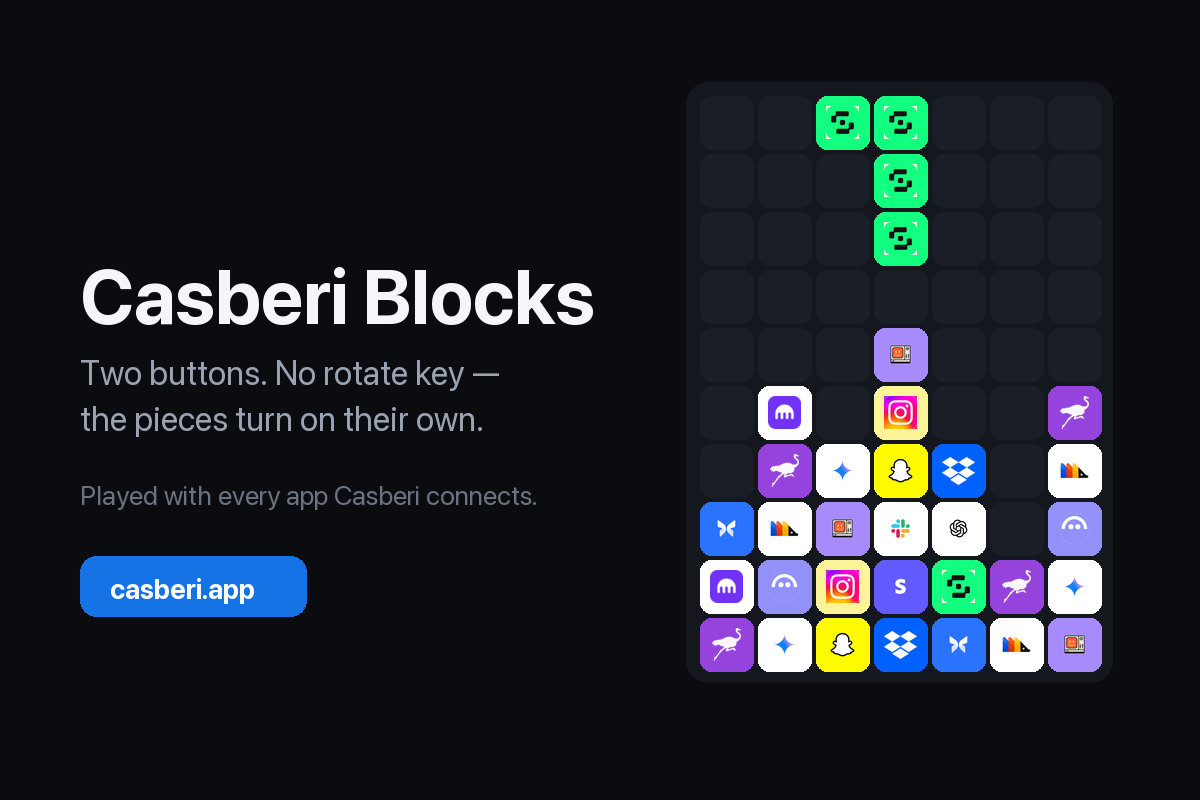
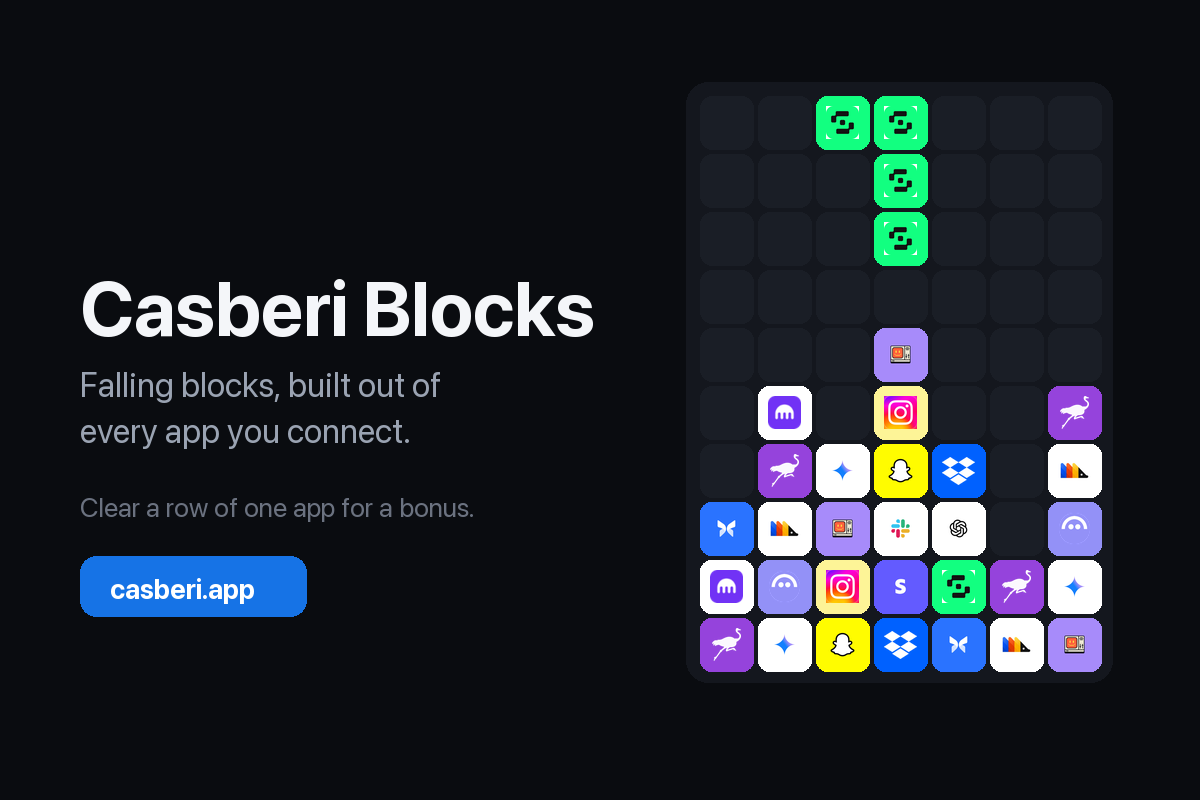
Casberi Blocks: pieces stop turning by themselves
Three rounds of "too hard" and "it rotates when I hit drop" all traced to
one idea that had to go: pieces turned themselves, one quarter-turn per row
fallen. It made every drop look like it rotated something, it made the only
rotation control a thing you paid height for, and it was simply hard to
play. Falling and turning are now fully independent, the way every
falling-block game works.

Rotation is a plain, free control on its own key. Drop goes straight to the
floor and never turns. Gravity never turns. Keyboard follows the convention
people already have: ↑ (or X/Z) turns, ↓ and Space drop.

The two down-ish keys were indistinguishable — ↓ beside ▼ — which is how a
rotate got pressed when a slam was meant. Glyphs are now inline SVG with
distinct silhouettes and distinct colours: a purple circular arrow for turn,
a blue arrow-into-a-floor-line for drop, grey triangles for move. Buttons
gained a lit-slab treatment (top-edge highlight, inner shade, coloured glow)
and sink when pressed. Text hints name the colours instead of repeating
glyphs, since ⟳ renders as a thin unreadable mark at body size.

The rotation pips are gone with the mechanic they measured, and the feed
image plus the og: copy no longer advertise auto-rotation — that claim would
have been false the moment this shipped.

Changed region(s): [[0.0617, 0.3125, 0.4933, 0.5625], [0.0617, 0.5938, 0.4317, 0.6562]]

diff --git a/website/blocks.html b/website/blocks.html
@@ -4,9 +4,9 @@
 <meta charset="utf-8">
 <meta name="viewport" content="width=device-width, initial-scale=1, maximum-scale=1, user-scalable=no, viewport-fit=cover">
 <title>Casberi Blocks</title>
-<meta name="description" content="Tetris with two buttons, played with every app Casberi connects to.">
+<meta name="description" content="Falling blocks, built out of every app Casberi connects to.">
 <meta property="og:title" content="Casberi Blocks">
-<meta property="og:description" content="Two buttons. Every app icon. The pieces turn on their own.">
+<meta property="og:description" content="Falling blocks, made of every app you connect.">
 <meta property="og:image" content="https://casberi.app/m/e.png">
 <meta name="fc:miniapp" content='{"version":"1","imageUrl":"https://casberi.app/m/e.png","button":{"title":"Play Casberi Blocks","action":{"type":"launch_frame","name":"Casberi Blocks","url":"https://casberi.app/blocks.html","splashImageUrl":"https://casberi.app/m/s.png","splashBackgroundColor":"#0a0c10"}}}'>
 <style>
@@ -105,35 +105,50 @@ body{
 .rot i.half{background:rgba(59,140,240,.45);}
 
 /* ---------- Controls ---------- */
-.pad{display:flex;gap:11px;width:100%;flex:none;}
+.pad{display:flex;gap:10px;width:100%;flex:none;}
 .btn{
-  flex:1;height:78px;border:0;border-radius:22px;
-  background:linear-gradient(180deg,#242a37,#161a23);
+  flex:1;height:82px;border:0;border-radius:26px;
   color:var(--ink);
-  font-size:26px;font-weight:700;
+  font-size:27px;font-weight:700;line-height:1;
   display:flex;align-items:center;justify-content:center;
-  position:relative;overflow:hidden;
-  /* depth without a hairline: an inset highlight, not a border */
-  box-shadow:0 1px 0 rgba(255,255,255,.07) inset, 0 8px 20px rgba(0,0,0,.42);
-  transition:transform .11s cubic-bezier(.2,.7,.2,1), box-shadow .11s ease, filter .11s ease;
+  position:relative;overflow:hidden;isolation:isolate;
+  /* Each key is a lit slab: a bright top edge, a darker belly, and a glow
+     underneath. Depth comes from inset light — never a drawn line. */
+  background:
+    radial-gradient(120% 80% at 50% -20%, rgba(255,255,255,.16), transparent 60%),
+    linear-gradient(180deg,#2b3242,#141821);
+  box-shadow:
+    0 1px 0 rgba(255,255,255,.14) inset,
+    0 -10px 22px rgba(0,0,0,.35) inset,
+    0 10px 24px rgba(0,0,0,.45);
+  transition:transform .12s cubic-bezier(.2,.8,.2,1), box-shadow .12s ease, filter .12s ease;
 }
+/* pressing sinks the slab and kills its own drop shadow */
 .btn:active,.btn.on{
-  transform:translateY(2px) scale(.972);
-  box-shadow:0 2px 8px rgba(0,0,0,.5);
-  filter:brightness(1.32);
+  transform:translateY(3px) scale(.965);
+  box-shadow:0 1px 0 rgba(255,255,255,.10) inset, 0 -6px 16px rgba(0,0,0,.45) inset, 0 2px 6px rgba(0,0,0,.5);
+  filter:brightness(1.3);
 }
-/* Drop is the commit, so it reads as the accent action. It has exactly ONE
-   verb — tap and the piece slams, like every other falling-block game.
-   Overloading it with a nudge made a tap feel like a rotate, which is the
-   opposite of what Tetris trains people to expect. */
+/* the icons get a soft halo so they read as lit, not printed */
+.btn > .g{position:relative;z-index:2;display:flex;filter:drop-shadow(0 0 9px rgba(255,255,255,.30));}
+.btn > .g svg{display:block;}
+
+/* Each verb owns a colour, so no two keys are ever confused for each other
+   the way ↓ and ▼ once were. */
+.btn.turn{
+  flex:0 0 19%;font-size:26px;
+  background:
+    radial-gradient(120% 80% at 50% -20%, rgba(255,255,255,.20), transparent 60%),
+    linear-gradient(180deg,#8f6ad8,#5b3ba3);
+  box-shadow:0 1px 0 rgba(255,255,255,.26) inset, 0 -10px 22px rgba(0,0,0,.28) inset, 0 10px 26px rgba(133,93,205,.42);
+}
 .btn.drop{
-  flex:0 0 26%;font-size:25px;
-  background:linear-gradient(180deg,#4a97f5,#1461c9);
-  box-shadow:0 1px 0 rgba(255,255,255,.22) inset, 0 8px 24px rgba(22,115,230,.42);
+  flex:0 0 27%;font-size:26px;
+  background:
+    radial-gradient(120% 80% at 50% -20%, rgba(255,255,255,.22), transparent 60%),
+    linear-gradient(180deg,#4a97f5,#1157bd);
+  box-shadow:0 1px 0 rgba(255,255,255,.28) inset, 0 -10px 22px rgba(0,0,0,.28) inset, 0 10px 26px rgba(22,115,230,.48);
 }
-/* The nudge is the optional finesse key — quieter, and off to the side so
-   it can never be hit when someone means to drop. */
-.btn.nudge{flex:0 0 17%;font-size:21px;color:var(--muted);}
 .btn.drop:active,.btn.drop.on{
   box-shadow:0 3px 14px rgba(22,115,230,.55), 0 -2px 10px rgba(0,0,0,.25) inset;
 }
@@ -252,10 +267,7 @@ body{
       <div class="stat"><div class="k">Best</div><div class="v" id="best">0</div></div>
     </div>
     <div class="next">
-      <div>
-        <div class="k">Next</div>
-        <div class="rot" id="rot"><i></i><i></i><i></i><i></i></div>
-      </div>
+      <div class="k">Next</div>
       <div id="nextBox"></div>
       <div id="nextBox2"></div>
     </div>
@@ -266,7 +278,7 @@ body{
     <div class="toast" id="toast"></div>
     <div class="veil" id="veil">
       <h1 id="vTitle">Casberi Blocks</h1>
-      <p id="vBody">There is no rotate button. Pieces turn by themselves — one quarter-turn for every row they fall.<br><br><b>◀ ▶ steer. ▼ drops all the way</b> and locks the shape it has right then — it never turns on the way down. <b>↓ nudges one row</b>, and because a fallen row turns the piece, that is how you buy the angle you want.</p>
+      <p id="vBody">Falling blocks, built out of every app Casberi connects to.<br><br>The arrows move, <b>the purple key turns</b>, and <b>the blue key drops</b> straight to the floor. Fill a row to clear it — and a row of four or more of the same app pays a bonus.</p>
       <div class="legend" id="legend"></div>
       <div class="row">
         <button class="cta" id="vPlay">Play</button>
@@ -276,12 +288,12 @@ body{
   </div>
 
   <div class="pad">
-    <button class="btn" id="bl" aria-label="Move left">◀</button>
-    <button class="btn nudge" id="bn" aria-label="Nudge down one row">↓</button>
-    <button class="btn drop" id="bd" aria-label="Drop all the way">▼</button>
-    <button class="btn" id="br" aria-label="Move right">▶</button>
+    <button class="btn" id="bl" aria-label="Move left"><span class="g"><svg viewBox="0 0 24 24" width="26" height="26" aria-hidden="true"><polygon points="16,3.5 5.5,12 16,20.5" fill="currentColor"/></svg></span></button>
+    <button class="btn turn" id="bn" aria-label="Turn the piece"><span class="g"><svg viewBox="0 0 24 24" width="27" height="27" fill="none" stroke="currentColor" stroke-width="2.4" stroke-linecap="round" stroke-linejoin="round" aria-hidden="true"><polyline points="22 5 22 11 16 11"/><path d="M19.6 15.5a8.5 8.5 0 1 1-2-8.9L22 11"/></svg></span></button>
+    <button class="btn drop" id="bd" aria-label="Drop all the way to the floor"><span class="g"><svg viewBox="0 0 24 24" width="27" height="27" fill="none" stroke="currentColor" stroke-width="2.5" stroke-linecap="round" stroke-linejoin="round" aria-hidden="true"><path d="M12 3v10.5"/><polyline points="6.5 9.5 12 15 17.5 9.5"/><path d="M5 20h14"/></svg></span></button>
+    <button class="btn" id="br" aria-label="Move right"><span class="g"><svg viewBox="0 0 24 24" width="26" height="26" aria-hidden="true"><polygon points="8,3.5 18.5,12 8,20.5" fill="currentColor"/></svg></span></button>
   </div>
-  <div class="hint">▼ drops all the way · ↓ nudges one row, which turns it</div>
+  <div class="hint">Keys: ← → move · ↑ turns · ↓ drops to the floor</div>
 
 </div>
 
@@ -338,7 +350,7 @@ const nextIcon = makeBag(NAMES);
 /* ---------------- state ---------------- */
 let grid, piece, queue, score, lines, level, over, started;
 let dropAcc, lockAcc, lockResets, clearing, clearAcc, clearRows;
-let rowsSinceTurn, clearedApps, best;
+let clearedApps, best;
 
 const el = id => document.getElementById(id);
 const boardEl = el('board'), veil = el('veil');
@@ -355,7 +367,7 @@ function reset(){
   score = 0; lines = 0; level = 1; over = false;
   dropAcc = 0; lockAcc = 0; lockResets = 0;
   clearing = null; clearAcc = 0; clearRows = null;
-  rowsSinceTurn = 0; clearedApps = new Set();
+  clearedApps = new Set();
   queue = [spawnData(), spawnData()];
   newPiece();
   syncHUD();
@@ -371,7 +383,6 @@ function newPiece(){
   queue.push(spawnData());
   piece = { m: d.m, icon: d.icon, key: d.key,
             x: ((COLS - d.m.length) / 2) | 0, y: -topPad(d.m), rot: 0 };
-  rowsSinceTurn = 0;
   tint(d.icon);
   if (hits(piece.m, piece.x, piece.y)) gameOver();
   drawNext();
@@ -394,19 +405,10 @@ function thud(){
   s.classList.add('thud');
 }
 
-/* How many rows a piece must fall to earn one quarter-turn.
-   It rises with level ON PURPOSE: dropInterval already shrinks, so if a
-   turn stayed at one row the piece would simply spin faster and the game
-   would scale on reflex instead of on planning. Costing two rows late on
-   means you fall faster but steer the ANGLE more finely. */
-const rowsPerTurn = () => (level >= 8 ? 2 : 1);
-
-/* One row of descent, from gravity or from a nudge — both pay into the
-   same turn meter, which is what makes soft drop a rotate button. */
-function advanceTurn(){
-  rowsSinceTurn++;
-  if (rowsSinceTurn >= rowsPerTurn()){ rowsSinceTurn = 0; autoTurn(); }
-}
+/* Rotation is a plain control now. Pieces used to turn by themselves, one
+   quarter-turn per row fallen — it made the game a lookahead puzzle, but it
+   also made every drop feel like it rotated something, and it was simply
+   hard to play. Falling and turning are fully independent again. */
 
 /* rows of empty space at the top of the matrix — so pieces enter flush */
 function topPad(m){
@@ -426,9 +428,10 @@ function hits(m, px, py){
   return false;
 }
 
-/* The automatic quarter-turn. Tries kicks; if nothing fits it simply
-   does not turn this row — the piece still falls, so it can never stall. */
-function autoTurn(){
+/* One quarter-turn clockwise. Tries a few kicks so a piece snug against a
+   wall or the stack can still turn; if nothing fits, it refuses rather than
+   forcing an overlap. */
+function turnPiece(){
   const t = rotCW(piece.m);
   for (const [dx, dy] of KICKS){
     if (!hits(t, piece.x + dx, piece.y + dy)){
@@ -451,14 +454,13 @@ function move(dx){
 
 const grounded = () => hits(piece.m, piece.x, piece.y + 1);
 
-/* Soft drop: spend one row of height to buy one step of rotation. This is
-   the closest thing to a rotate button the game has, and it is deliberately
-   not free — deep in a stack there is no height left to spend. */
-function softDrop(){
+/* The rotate control. Free — it costs no height and no time, which is what
+   every falling-block game trains people to expect. Turning while resting
+   on the stack resets the lock timer (bounded) so you can still adjust. */
+function rotate(){
   if (over || !started || clearing) return false;
-  if (grounded()) return false;          // nothing left to spend
-  piece.y++; score += 1; dropAcc = 0;
-  advanceTurn();
+  if (!turnPiece()) return false;
+  if (grounded() && lockResets < MAX_LOCK_RESETS){ lockAcc = 0; lockResets++; }
   syncHUD(); render();
   return true;
 }
@@ -545,7 +547,7 @@ function commitClear(){
     buzz([0, 25, 50, 25]);
     const t = el('toast');
     t.innerHTML = '<span class="bonus">Level ' + level + '</span>' +
-                  (rowsPerTurn() > 1 ? ' <span class="dim">— a turn now costs two rows</span>' : '');
+                  ' <span class="dim">— they fall faster now</span>';
     t.classList.add('show');
     clearTimeout(t._h);
     t._h = setTimeout(() => t.classList.remove('show'), 1600);
@@ -739,14 +741,6 @@ function syncHUD(){
   el('lines').textContent = lines;
   el('level').textContent = level;
   el('best').textContent  = Math.max(best, score);
-  const pips = el('rot').children;
-  const part = rowsPerTurn() > 1 && rowsSinceTurn > 0;
-  for (let i = 0; i < 4; i++){
-    const isNow  = piece && i === piece.rot;
-    const isNext = piece && i === ((piece.rot + 1) & 3);
-    pips[i].classList.toggle('on', !!isNow);
-    pips[i].classList.toggle('half', !isNow && !!isNext && part);
-  }
 }
 
 /* ---------------- loop ---------------- */
@@ -773,9 +767,7 @@ function loop(t){
     dropAcc += dt;
     if (dropAcc >= dropInterval()){
       dropAcc = 0;
-      piece.y++;
-      advanceTurn();         // a fallen row pays into the turn meter
-      syncHUD();
+      piece.y++;             // falling only — turning is the player's job
     }
   }
   stepDAS(dt);
@@ -803,7 +795,7 @@ function aim(dir){ dasDir = dir; dasAcc = 0; dasCharged = false; }
    ambiguity. ↓ is the separate finesse key that spends a row to turn. */
 function down(side){
   if (side === 'd'){ hardDrop(); return; }
-  if (side === 'n'){ softDrop(); return; }
+  if (side === 'n'){ rotate(); return; }
   held[side] = true;
   aim(side === 'l' ? -1 : 1);
   move(dasDir);
@@ -860,20 +852,21 @@ addEventListener('pointerup', release);
 addEventListener('pointercancel', release);
 wire('bl', 'l'); wire('br', 'r'); wire('bd', 'd'); wire('bn', 'n');
 
+/* Down means DOWN — it goes to the floor, like the ▼ key it mirrors.
+   Rotation lives on Up (and X/Z), which is where falling-block games put it. */
 addEventListener('keydown', e => {
-  // ArrowDown is allowed to repeat — nudging is meant to be spammable.
-  if (e.key === 'ArrowDown'){ e.preventDefault(); el('bn').classList.add('on'); softDrop(); return; }
   if (e.repeat) return;
   if (e.key === 'ArrowLeft')  { el('bl').classList.add('on'); down('l'); }
   if (e.key === 'ArrowRight') { el('br').classList.add('on'); down('r'); }
-  if (e.key === ' ')          { e.preventDefault(); el('bd').classList.add('on'); hardDrop(); }
+  if (e.key === 'ArrowUp' || e.key === 'x' || e.key === 'z'){ e.preventDefault(); el('bn').classList.add('on'); rotate(); }
+  if (e.key === 'ArrowDown' || e.key === ' '){ e.preventDefault(); el('bd').classList.add('on'); hardDrop(); }
   if (e.key === 'Enter' && !started) start();
 });
 addEventListener('keyup', e => {
   if (e.key === 'ArrowLeft')  { el('bl').classList.remove('on'); up('l'); }
   if (e.key === 'ArrowRight') { el('br').classList.remove('on'); up('r'); }
-  if (e.key === ' ') el('bd').classList.remove('on');
-  if (e.key === 'ArrowDown') el('bn').classList.remove('on');
+  if (e.key === 'ArrowUp' || e.key === 'x' || e.key === 'z') el('bn').classList.remove('on');
+  if (e.key === 'ArrowDown' || e.key === ' ') el('bd').classList.remove('on');
 });
 
 /* ---------------- shell ---------------- */
@@ -918,7 +911,7 @@ el('vShare').addEventListener('click', async () => {
   const text = 'Casberi Blocks: ' + score + ' · ' + lines +
                (lines === 1 ? ' line' : ' lines') +
                (apps.length ? ' — cleared ' + named + tail + '.' : '.') +
-               ' No rotate button; the pieces turn on their own.';
+               ' Falling blocks made of every app you connect.';
   const url = 'https://casberi.app/blocks.html';
   try {
     if (FC && FC.actions.composeCast) { await FC.actions.composeCast({ text, embeds: [url] }); return; }
